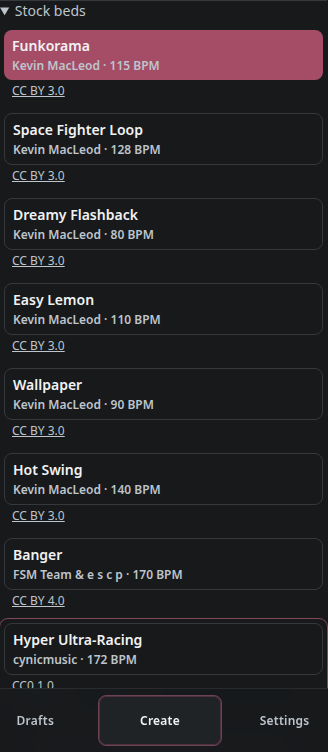
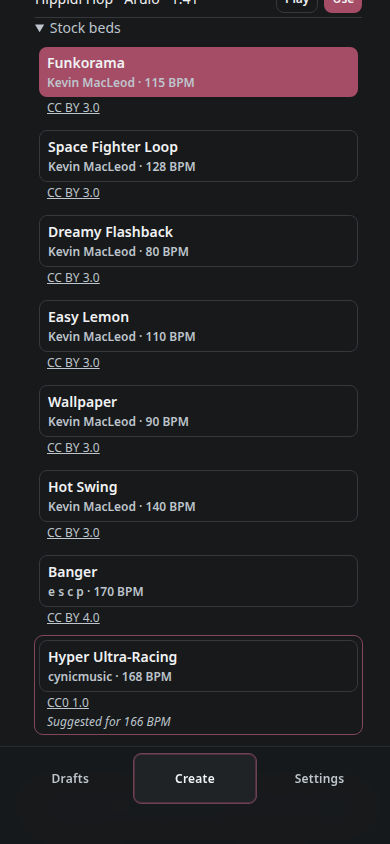
Fix rush BPM to 168 and strengthen CC BY Banger credits.
Measure the rush excerpt with onset autocorrelation, set catalogue BPM accordingly, and require excerpt plus source/credit URLs in credits, worker metadata, picker, and LICENSE.md.

diff --git a/packages/contracts/src/index.ts b/packages/contracts/src/index.ts
@@ -47,7 +47,8 @@ export const stockBeds = [
     artist: "Kevin MacLeod",
     bpm: 115,
     license: "CC BY 3.0",
-    licenseUrl: "https://creativecommons.org/licenses/by/3.0/"
+    licenseUrl: "https://creativecommons.org/licenses/by/3.0/",
+    sourceUrl: "https://incompetech.com"
   },
   {
     id: "drive",
@@ -55,7 +56,8 @@ export const stockBeds = [
     artist: "Kevin MacLeod",
     bpm: 128,
     license: "CC BY 3.0",
-    licenseUrl: "https://creativecommons.org/licenses/by/3.0/"
+    licenseUrl: "https://creativecommons.org/licenses/by/3.0/",
+    sourceUrl: "https://incompetech.com"
   },
   {
     id: "air",
@@ -63,7 +65,8 @@ export const stockBeds = [
     artist: "Kevin MacLeod",
     bpm: 80,
     license: "CC BY 3.0",
-    licenseUrl: "https://creativecommons.org/licenses/by/3.0/"
+    licenseUrl: "https://creativecommons.org/licenses/by/3.0/",
+    sourceUrl: "https://incompetech.com"
   },
   {
     id: "glow",
@@ -71,7 +74,8 @@ export const stockBeds = [
     artist: "Kevin MacLeod",
     bpm: 110,
     license: "CC BY 3.0",
-    licenseUrl: "https://creativecommons.org/licenses/by/3.0/"
+    licenseUrl: "https://creativecommons.org/licenses/by/3.0/",
+    sourceUrl: "https://incompetech.com"
   },
   {
     id: "night",
@@ -79,7 +83,8 @@ export const stockBeds = [
     artist: "Kevin MacLeod",
     bpm: 90,
     license: "CC BY 3.0",
-    licenseUrl: "https://creativecommons.org/licenses/by/3.0/"
+    licenseUrl: "https://creativecommons.org/licenses/by/3.0/",
+    sourceUrl: "https://incompetech.com"
   },
   {
     id: "rise",
@@ -87,23 +92,27 @@ export const stockBeds = [
     artist: "Kevin MacLeod",
     bpm: 140,
     license: "CC BY 3.0",
-    licenseUrl: "https://creativecommons.org/licenses/by/3.0/"
+    licenseUrl: "https://creativecommons.org/licenses/by/3.0/",
+    sourceUrl: "https://incompetech.com"
   },
   {
     id: "banger",
     title: "Banger",
-    artist: "FSM Team & e s c p",
+    artist: "e s c p",
     bpm: 170,
     license: "CC BY 4.0",
-    licenseUrl: "https://creativecommons.org/licenses/by/4.0/"
+    licenseUrl: "https://creativecommons.org/licenses/by/4.0/",
+    sourceUrl: "https://www.free-stock-music.com/fsm-team-banger.html",
+    creditUrl: "https://www.escp.space"
   },
   {
     id: "rush",
     title: "Hyper Ultra-Racing",
     artist: "cynicmusic",
-    bpm: 172,
+    bpm: 168,
     license: "CC0 1.0",
-    licenseUrl: "https://creativecommons.org/publicdomain/zero/1.0/"
+    licenseUrl: "https://creativecommons.org/publicdomain/zero/1.0/",
+    sourceUrl: "https://opengameart.org/content/hyper-ultra-racing"
   }
 ] as const;
 export type StockBed = (typeof stockBeds)[number];
@@ -111,8 +120,14 @@ export type StockBedId = StockBed["id"];
 export const stockBedIds = stockBeds.map((bed) => bed.id);
 
 /** Credit line for a catalogue bed. Uses ASCII commas only (no U+2014). */
-export function stockBedCredit(bed: Pick<StockBed, "title" | "artist" | "license">): string {
-  return `${bed.title} by ${bed.artist}, ${bed.license}`;
+export function stockBedCredit(bed: {
+  title: string;
+  artist: string;
+  license: string;
+  creditUrl?: string;
+}): string {
+  const base = `${bed.title} by ${bed.artist}, ${bed.license}, excerpt`;
+  return bed.creditUrl ? `${base} (${bed.creditUrl})` : base;
 }
 
 /** Closest catalogue bed within ±5 BPM of `bpm`, or undefined when none match. */

diff --git a/apps/worker/src/index.ts b/apps/worker/src/index.ts
@@ -3,7 +3,15 @@ import { existsSync } from "node:fs";
 import { unlink, writeFile } from "node:fs/promises";
 import { dirname, join } from "node:path";
 import { fileURLToPath } from "node:url";
-import { stockBeds, type CaptionCue, type OverlayLook, type OverlayPlace, type ProjectSnapshot, type Scene } from "@f-engine/contracts";
+import {
+  stockBedCredit,
+  stockBeds,
+  type CaptionCue,
+  type OverlayLook,
+  type OverlayPlace,
+  type ProjectSnapshot,
+  type Scene
+} from "@f-engine/contracts";
 import {
   coverCropFilter,
   RENDER_FPS,
@@ -48,6 +56,8 @@ export interface SoundtrackMix {
   title?: string;
   artist?: string;
   license?: string;
+  sourceUrl?: string;
+  creditUrl?: string;
 }
 
 export interface MediaLimits {
@@ -628,7 +638,9 @@ export function resolveSoundtrackMix(
     offsetMs: bed.offset_ms,
     title: catalog?.title,
     artist: catalog?.artist,
-    license: catalog?.license
+    license: catalog?.license,
+    sourceUrl: catalog?.sourceUrl,
+    creditUrl: catalog && "creditUrl" in catalog ? catalog.creditUrl : undefined
   };
 }
 
@@ -645,12 +657,18 @@ export function resolveVoiceoverMix(
 
 export function soundtrackMetadata(mix: SoundtrackMix): string[] {
   const credit = mix.artist && mix.title
-    ? `${mix.title} by ${mix.artist}, ${mix.license ?? "licensed"}`
+    ? stockBedCredit({
+      title: mix.title,
+      artist: mix.artist,
+      license: mix.license ?? "licensed",
+      ...(mix.creditUrl ? { creditUrl: mix.creditUrl } : {})
+    })
     : "Licensed soundtrack";
   return [
     ...(mix.title ? ["-metadata", `title=${mix.title}`] : []),
     ...(mix.artist ? ["-metadata", `artist=${mix.artist}`] : []),
-    "-metadata", `copyright=${credit}`
+    "-metadata", `copyright=${credit}`,
+    ...(mix.sourceUrl ? ["-metadata", `comment=${mix.sourceUrl}`] : [])
   ];
 }
 

diff --git a/apps/web/src/main.tsx b/apps/web/src/main.tsx
@@ -50,7 +50,6 @@ import {
   snapScenesToBeat as snapDurationsToBeat,
   stockBedUrl,
   stockBeds,
-  stockBedCredit,
   suggestedStockBed,
   showsPartnerBrands,
   cuesForScene,
@@ -3939,7 +3938,17 @@ export function App() {
                 })}
               </ul>
               {selectedStockBed ? (
-                <p className="crop-hint">{stockBedCredit(selectedStockBed)}</p>
+                <p className="crop-hint">
+                  <a href={selectedStockBed.sourceUrl} target="_blank" rel="noreferrer">{selectedStockBed.title}</a>
+                  {" by "}
+                  {selectedStockBed.artist}
+                  {", "}
+                  <a href={selectedStockBed.licenseUrl} target="_blank" rel="noreferrer">{selectedStockBed.license}</a>
+                  {", excerpt"}
+                  {"creditUrl" in selectedStockBed && selectedStockBed.creditUrl ? (
+                    <>{" ("}<a href={selectedStockBed.creditUrl} target="_blank" rel="noreferrer">{selectedStockBed.creditUrl}</a>{")"}</>
+                  ) : null}
+                </p>
               ) : null}
             </details>
             {soundtrack ? (

diff --git a/apps/web/src/style.css b/apps/web/src/style.css
@@ -1004,8 +1004,11 @@ button:focus-visible, a:focus-visible, input:focus-visible, textarea:focus-visib
   display: grid;
   gap: 6px;
   margin-top: 6px;
-  padding: 0;
+  padding: 0 0 calc(12px + var(--safe-bottom, 0px));
   list-style: none;
+}
+.music-dock .music-classic {
+  padding-bottom: calc(72px + var(--safe-bottom, 0px));
 }
 .music-beds li {
   display: grid;

diff --git a/apps/web/public/music/LICENSE.md b/apps/web/public/music/LICENSE.md
@@ -1,7 +1,8 @@
 # Licensed music catalog
 
-32-second excerpts used under clear redistributable licenses (CC BY or CC0).
-The studio shows per-track credit; Export video writes title, artist, and copyright into the MP4 metadata.
+These files are 32 second excerpts trimmed from the originals.
+They are used under clear redistributable licenses (CC BY or CC0).
+The studio shows per-track credit; Export video writes title, artist, copyright, and source comment into the MP4 metadata.
 
 | File | Title | Artist | License |
 |---|---|---|---|
@@ -11,13 +12,13 @@ The studio shows per-track credit; Export video writes title, artist, and copyri
 | `glow.mp3` | Easy Lemon | Kevin MacLeod | [CC BY 3.0](https://creativecommons.org/licenses/by/3.0/) |
 | `night.mp3` | Wallpaper | Kevin MacLeod | [CC BY 3.0](https://creativecommons.org/licenses/by/3.0/) |
 | `rise.mp3` | Hot Swing | Kevin MacLeod | [CC BY 3.0](https://creativecommons.org/licenses/by/3.0/) |
-| `banger.mp3` | Banger | FSM Team & e s c p | [CC BY 4.0](https://creativecommons.org/licenses/by/4.0/) |
+| `banger.mp3` | Banger | e s c p | [CC BY 4.0](https://creativecommons.org/licenses/by/4.0/) |
 | `rush.mp3` | Hyper Ultra-Racing | cynicmusic | [CC0 1.0](https://creativecommons.org/publicdomain/zero/1.0/) |
 
 ## Sources and required credit
 
-Kevin MacLeod tracks: [incompetech.com](https://incompetech.com). Required credit example: **Funkorama by Kevin MacLeod, CC BY 3.0**.
+Kevin MacLeod tracks: [incompetech.com](https://incompetech.com). Required credit example: **Funkorama by Kevin MacLeod, CC BY 3.0, excerpt**.
 
-Banger: [free-stock-music.com/fsm-team-banger.html](https://www.free-stock-music.com/fsm-team-banger.html) (CC BY 4.0). Credit: **Banger by FSM Team & e s c p, CC BY 4.0**.
+Banger: [free-stock-music.com/fsm-team-banger.html](https://www.free-stock-music.com/fsm-team-banger.html) (CC BY 4.0). Required credit: **Banger by | e s c p | https://www.escp.space https://escp-music.bandcamp.com**. Catalogue credit (notes the trimmed excerpt): **Banger by e s c p, CC BY 4.0, excerpt (https://www.escp.space)**.
 
-Hyper Ultra-Racing: [opengameart.org/content/hyper-ultra-racing](https://opengameart.org/content/hyper-ultra-racing) (CC0 1.0). Credit: **Hyper Ultra-Racing by cynicmusic, CC0 1.0**.
+Hyper Ultra-Racing: [opengameart.org/content/hyper-ultra-racing](https://opengameart.org/content/hyper-ultra-racing) (CC0 1.0). Credit: **Hyper Ultra-Racing by cynicmusic, CC0 1.0, excerpt**.
